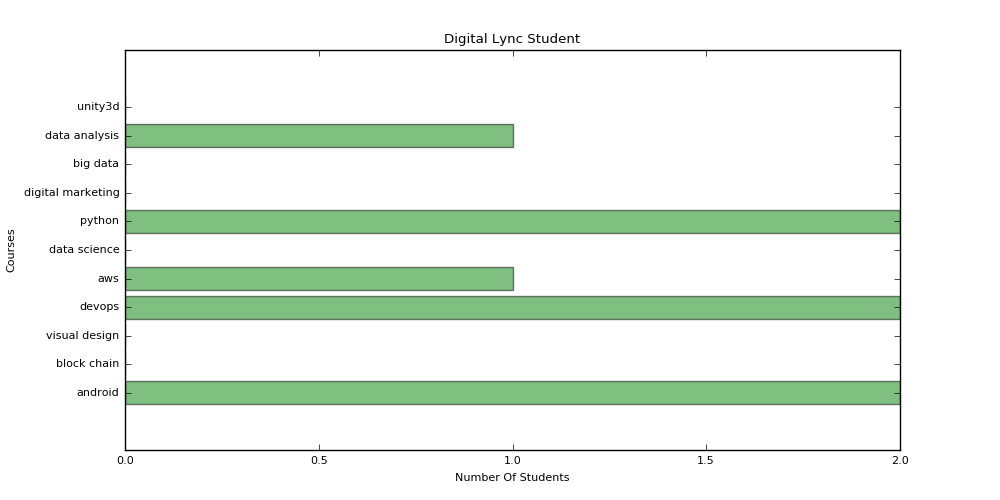
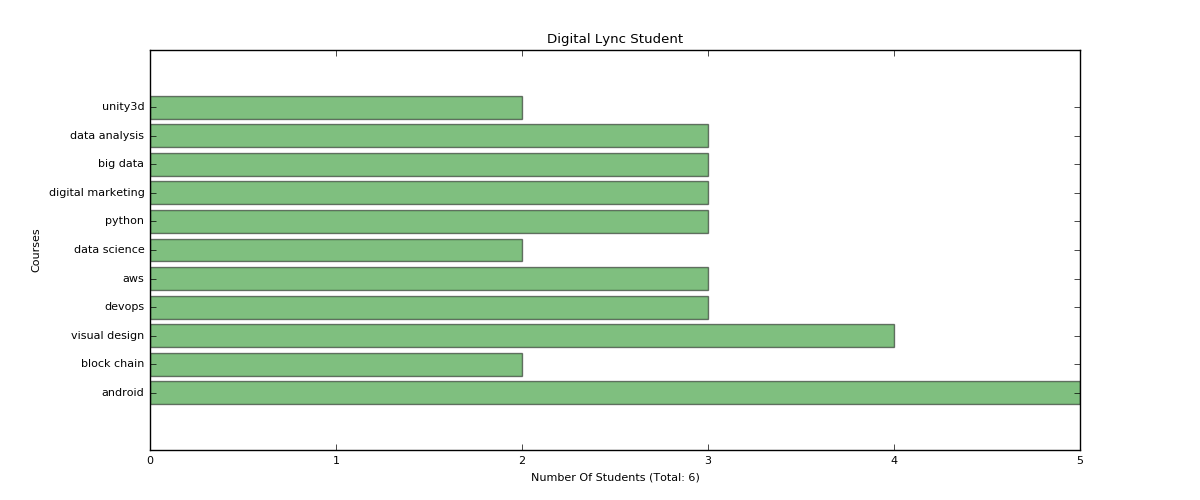
changes made in DLStudent, DLTracker, DLStatData

diff --git a/DLTracker.py b/DLTracker.py
@@ -1,26 +1,21 @@
 from location import DLLocation
 from DLStudent import *
 from DLMentor import *
-from DLStatData import digital_lync_chart
-
 
 from __UI import DLTrackerUI
 from PyQt4 import QtCore
 from PyQt4 import QtGui
 
 import config
-import numpy
 import time
-import json
 import sys
 
 DL_SPLASH = posixpath.join(os.path.dirname(__file__), 'assets', 'icon', 'dl.png')
 DL_ICON_PATH = posixpath.join(os.path.dirname(__file__), 'assets', 'icon', 'dl3.png')
 
-class Digital_Lync(QtGui.QMainWindow, DLTrackerUI.Ui_MainWindow, digital_lync_student, digital_lync_mentor, digital_lync_chart):
+class Digital_Lync(QtGui.QMainWindow, DLTrackerUI.Ui_MainWindow, digital_lync_student, digital_lync_mentor):
     def __init__(self, parent=None):
         super(Digital_Lync, self).__init__()
-        digital_lync_chart.__init__(self)
         self.Digital_Lync_location = DLLocation().location
         self.setWindowTitle("Digital Lync")
         self.setWindowIcon(QtGui.QIcon(DL_ICON_PATH))
@@ -60,7 +55,6 @@ class Digital_Lync(QtGui.QMainWindow, DLTrackerUI.Ui_MainWindow, digital_lync_st
             self.course_label.setText("Subjects")
             self.course_opted_label.setText("Mentor Subject Expert")
             self.id_label.setText("Mentor ID")
-            self.plot_mentor_chart()
             self.bar_graph_label.setPixmap(QtGui.QPixmap('./assets/stat_data/mentor_count_bar.png'))
         else:
             self.generateID_pushButton.setText("Generate Student ID")
@@ -69,7 +63,6 @@ class Digital_Lync(QtGui.QMainWindow, DLTrackerUI.Ui_MainWindow, digital_lync_st
             self.course_label.setText("Courses Available")
             self.course_opted_label.setText("Courses Opted")
             self.id_label.setText("Student ID")
-            self.plot_student_chart()
             self.bar_graph_label.setPixmap(QtGui.QPixmap('./assets/stat_data/student_count_bar.png'))
         self.registration_auto_completer()
         self.reset_student_page()
@@ -221,7 +214,8 @@ class Digital_Lync(QtGui.QMainWindow, DLTrackerUI.Ui_MainWindow, digital_lync_st
 
     def validate_email_id(self):
         valid_email = str(self.emailid_lineEdit.text())
-        if str(self.emailid_lineEdit.text()).rsplit('.', 1)[-1] in ('com', 'in', 'org', 'gov', 'edu', 'net') and len(str(self.emailid_lineEdit.text()).split('@'))==2:
+        if str(self.emailid_lineEdit.text()).rsplit('.', 1)[-1] in ('com', 'in', 'org', 'gov', 'edu', 'net') and \
+                        len(str(self.emailid_lineEdit.text()).split('@')) == 2:
             self.emailid_lineEdit.setText(valid_email)
             self.email_id_label.setText('valid')
             self.update_pushButton.setEnabled(True)
@@ -276,6 +270,7 @@ class Digital_Lync(QtGui.QMainWindow, DLTrackerUI.Ui_MainWindow, digital_lync_st
                 self.update_mentor_details(registration_fname, registration_lname, registration_dob, registration_qulfctn, registration_addrs, registration_mob, registration_email, registration_prof, registration_course_opted)
         self.reset_student_page()
         self.registration_auto_completer()
+        self.registration_ui_changes()
 
 
     def load_registration_id(self):

diff --git a/DLStatData.py b/DLStatData.py
@@ -2,11 +2,13 @@ import matplotlib.pyplot as plt
 import numpy as np
 import posixpath
 import json
+import time
 import os
 import config
 
 from location import DLLocation
 from collections import defaultdict
+
 
 root_file_path = posixpath.join(os.path.dirname(__file__), 'config')
 
@@ -54,22 +56,24 @@ class digital_lync_chart:
         return student_course_count_dict
 
     def plot_student_chart(self):
+        print("Plotting Student chart...")
         course_label = []
         course_size = []
         for item, count in self.get_student_course_count().items():
             course_label.append(item)
             course_size.append(count)
         plt.rc('font', size=8)
-        self.fig.set_size_inches(10.0, 5.0)
+        self.fig.set_size_inches(12.0, 5.0)
         y_pos = np.arange(len(course_label))
         self.ax.barh(y_pos, course_size, align='center', alpha=0.5, color='green')
         self.ax.set_yticks(y_pos)
         self.ax.set_yticklabels(course_label)
         self.ax.set_ylabel('Courses')
         self.ax.invert_yaxis()
-        self.ax.set_xlabel('Number Of Students')
+        self.ax.set_xlabel('Number Of Students (Total: {})'.format(str(self.get_total_student_count())))
         self.ax.set_title('Digital Lync Student')
         plt.savefig('./assets/stat_data/student_count_bar.png')
+        time.sleep(2)
         # plt.show()
 
     def plot_mentor_chart(self):

diff --git a/DLStudent.py b/DLStudent.py
@@ -1,9 +1,11 @@
 import json
 import random
 import posixpath
+import time
 import os
 
 from location import DLLocation
+from DLStatData import *
 
 root_student_path = os.path.dirname(__file__)
 
@@ -11,8 +13,9 @@ loc = DLLocation().location
 student_config_file_path = posixpath.join(root_student_path, 'config/students', loc + '.json')
 
 
-class digital_lync_student(object):
+class digital_lync_student(object, digital_lync_chart):
     def __init__(self, student_ID):
+        digital_lync_chart.__init__(self)
         self.__student_ID = student_ID
         self.student_file_path = student_config_file_path
         self.load_student_dict()
@@ -76,6 +79,10 @@ class digital_lync_student(object):
         open_student_file = open(self.student_file_path, 'w')
         json.dump(self.student_dict, open_student_file, indent=2)
         open_student_file.close()
+        print("Updating...")
+        time.sleep(3)
+        self.plot_student_chart()
+        print("Updated.")
         self.student_dict={}
 
 

diff --git a/DLMentor.py b/DLMentor.py
@@ -4,6 +4,7 @@ import posixpath
 import os
 
 from location import DLLocation
+from DLStatData import *
 
 root_mentor_path = os.path.dirname(__file__)
 
@@ -11,8 +12,9 @@ loc = DLLocation().location
 mentor_config_file_path = posixpath.join(root_mentor_path, 'config/mentors', loc + '.json')
 
 
-class digital_lync_mentor(object):
+class digital_lync_mentor(object, digital_lync_chart):
     def __init__(self, mentor_ID):
+        digital_lync_chart.__init__(self)
         self.__mentor_ID = mentor_ID
         self.mentor_file_path = mentor_config_file_path
         self.load_mentor_dict()
@@ -76,6 +78,7 @@ class digital_lync_mentor(object):
         open_mentor_file = open(self.mentor_file_path, 'w')
         json.dump(self.mentor_dict, open_mentor_file, indent=2)
         open_mentor_file.close()
+        self.plot_mentor_chart()
         self.mentor_dict={}
 
 
